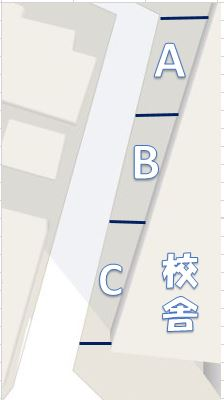
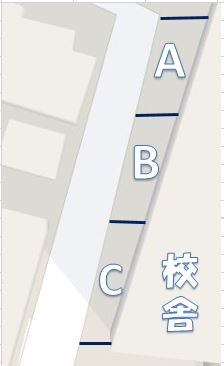
マップ全面改装

diff --git a/OutMap.html b/OutMap.html
@@ -31,20 +31,22 @@
                     <li data-icon="check"><a href="schedule.html" target="_top" data-ajax="false">イベントスケジュール</a></li>
                     <li data-icon="delete"><a href="#" data-rel="close">メニューを閉じる</a></li>  
                 </ul>
-                
-                
             </div>
-            
            <div data-role="content">
-               <div id="map" style="text-align: center;width: auto;">
-
-                    <img src="Maps/mapImg/road.JPG" style="float: left;">
-                    <ul data-role="listview" data-inset="true">
-						  <li data-icon="false"><a href="Maps/OutAreaA.html" style="background: #fac695;width: 60%;height: 80px;vertical-align: middle;"><p style="font-size: 40px;color: #6073FF;text-shadow:3px 3px 2px #0000ff;">Aエリア</p></a></li>
-						  <li data-icon="false"><a href="Maps/OutAreaB.html" style="background: #d3eefb;width: 60%;height: 80px;vertical-align: middle;"><p style="font-size: 40px;color: #6073FF;text-shadow:3px 3px 2px #0000ff;">Bエリア</p></a></li>
-						  <li data-icon="false"><a href="Maps/OutAreaC.html" style="background: #d2ff52;width: 60%;height: 80px;vertical-align: middle;"><p style="font-size: 40px;color: #6073FF;text-shadow:3px 3px 2px #0000ff;">Cエリア</p></a></li>
-						</ul>
-                                       <br>
+               <div id="map" style="text-align: center;">
+					<div width="88%">	 
+                    	<img src="Maps/mapImg/NewOutMap2.JPG" usemap="#pic" width="90%">
+                    	<span style="position: absolute; top: 20%; left: 65.5%;">
+      						<a href="Maps/OutAreaA.html" style="text-decoration: none; color:#4682B4"  ><font size="40px">A</font></a>
+   						</span>
+   						<span style="position: absolute; top: 40%; left: 57%;">
+      						<a href="Maps/OutAreaB.html" style="text-decoration: none; color:#4682B4"  ><font size="40px">B</font></a>
+   						</span>
+   						<span style="position: absolute; top: 63%; left: 45%;">
+      						<a href="Maps/OutAreaB.html" style="text-decoration: none; color:#4682B4"  ><font size="40px">C</font></a>
+   						</span>
+   					</div>
+		                    				
                     <div data-role="navbar">
                     	<ul>
                     		<li><a href="#" class="ui-state-persist">校外</a></li>

diff --git a/Maps/OutAreaA.html b/Maps/OutAreaA.html
@@ -39,14 +39,15 @@
                <div id="map" style="text-align: center;width: auto;">
 
                  
-                    <img src="mapImg/OutRoad.JPG" style="float: left;height: 100%">
-                    <ul data-role="listview" data-inset="true">
-						  <li data-icon="false"><a href="../mogiten/mogiten1.html" style="background: #fac695;width: 60%;height: 80px;vertical-align: middle;"><p style="font-size: 40px;color: #6073FF;text-shadow:3px 3px 2px #0000ff;">あ</p></a></li>
-						  <li data-icon="false"><a href="../mogiten/mogiten2.html" style="background: #fac695;width: 60%;height: 80px;vertical-align: middle;"><p style="font-size: 40px;color: #6073FF;text-shadow:3px 3px 2px #0000ff;">い</p></a></li>
-						  <li data-icon="false"><a href="../mogiten/mogiten3.html" style="background: #fac695;width: 60%;height: 80px;vertical-align: middle;"><p style="font-size: 40px;color: #6073FF;text-shadow:3px 3px 2px #0000ff;">う</p></a></li>
-						  <li data-icon="false"><a href="../mogiten/mogiten4.html" style="background: #fac695;width: 60%;height: 80px;vertical-align: middle;"><p style="font-size: 40px;color: #6073FF;text-shadow:3px 3px 2px #0000ff;">え</p></a></li>
+                    <img src="mapImg/Area.JPG" style="float: left;height: 80%">
+                    	<ul data-role="listview" data-inset="true">
+						  <li><a href="">1.</a></li>
+						  <li><a href="">2.</a></li>
+						  <li><a href="">3.</a></li>
+						  <li><a href="">4.</a></li>
 						</ul>
-                    <br>
+                    
+              
                     <div data-role="navbar">
                     	<ul>
                     		<li><a href="#" class="ui-state-persist">Aエリア</a></li>

diff --git a/Maps/OutAreaB.html b/Maps/OutAreaB.html
@@ -38,14 +38,14 @@
            <div data-role="content">
                <div id="map" style="text-align: center;width: auto;">
 
-                    <img src="mapImg/OutRoad.JPG" style="float: left;">
-                    <ul data-role="listview" data-inset="true">
-						  <li data-icon="false"><a href="../mogiten/mogiten1.html" style="background: #d3eefb;width: 60%;height: 80px;vertical-align: middle;"><p style="font-size: 40px;color: #6073FF;text-shadow:3px 3px 2px #0000ff;">あ</p></a></li>
-						  <li data-icon="false"><a href="../mogiten/mogiten2.html" style="background: #d3eefb;width: 60%;height: 80px;vertical-align: middle;"><p style="font-size: 40px;color: #6073FF;text-shadow:3px 3px 2px #0000ff;">い</p></a></li>
-						  <li data-icon="false"><a href="../mogiten/mogiten3.html" style="background: #d3eefb;width: 60%;height: 80px;vertical-align: middle;"><p style="font-size: 40px;color: #6073FF;text-shadow:3px 3px 2px #0000ff;">う</p></a></li>
-						  <li data-icon="false"><a href="../mogiten/mogiten4.html" style="background: #d3eefb;width: 60%;height: 80px;vertical-align: middle;"><p style="font-size: 40px;color: #6073FF;text-shadow:3px 3px 2px #0000ff;">え</p></a></li>
+                    <img src="mapImg/Areab.JPG" style="float: left;height: 80%">
+                    	<ul data-role="listview" data-inset="true">
+						  <li><a href="">1.</a></li>
+						  <li><a href="">2.</a></li>
+						  <li><a href="">3.</a></li>
+						  <li><a href="">4.</a></li>
 						</ul>
-                    <br>
+             
                     <div data-role="navbar">
                     	<ul>
                     		<li><a href="OutAreaA.html">Aエリア</a></li>

diff --git a/Maps/OutAreaC.html b/Maps/OutAreaC.html
@@ -38,14 +38,13 @@
            <div data-role="content">
                <div id="map" style="text-align: center;width: auto;">
 
-                    <img src="mapImg/OutRoad.JPG" style="float: left;">
-                    <ul data-role="listview" data-inset="true">
-						  <li data-icon="false"><a href="../mogiten/mogiten1.html" style="background: #d2ff52;width: 60%;height: 80px;vertical-align: middle;"><p style="font-size: 40px;color: #6073FF;text-shadow:3px 3px 2px #0000ff;">あ</p></a></li>
-						  <li data-icon="false"><a href="../mogiten/mogiten2.html" style="background: #d2ff52;width: 60%;height: 80px;vertical-align: middle;"><p style="font-size: 40px;color: #6073FF;text-shadow:3px 3px 2px #0000ff;">い</p></a></li>
-						  <li data-icon="false"><a href="../mogiten/mogiten3.html" style="background: #d2ff52;width: 60%;height: 80px;vertical-align: middle;"><p style="font-size: 40px;color: #6073FF;text-shadow:3px 3px 2px #0000ff;">う</p></a></li>
-						  <li data-icon="false"><a href="../mogiten/mogiten4.html" style="background: #d2ff52;width: 60%;height: 80px;vertical-align: middle;"><p style="font-size: 40px;color: #6073FF;text-shadow:3px 3px 2px #0000ff;">え</p></a></li>
+                    <img src="mapImg/Areac.JPG" style="float: left;height: 80%">
+                    	<ul data-role="listview" data-inset="true">
+						  <li><a href="">1.</a></li>
+						  <li><a href="">2.</a></li>
+						  <li><a href="">3.</a></li>
+						  <li><a href="">4.</a></li>
 						</ul>
-                    <br>
                     <div data-role="navbar">
                     	<ul>
                     		<li><a href="OutAreaA.html">Aエリア</a></li>

diff --git a/InMap.html b/InMap.html
@@ -48,7 +48,7 @@
 						  <li><a href="Maps/7Fmap.html">７階</a></li>
 						</ul>
                 </div>
-                <br><br>
+                
                 <div data-role="navbar">
                     	<ul>
                     		<li><a href="OutMap.html">校外</a></li>
